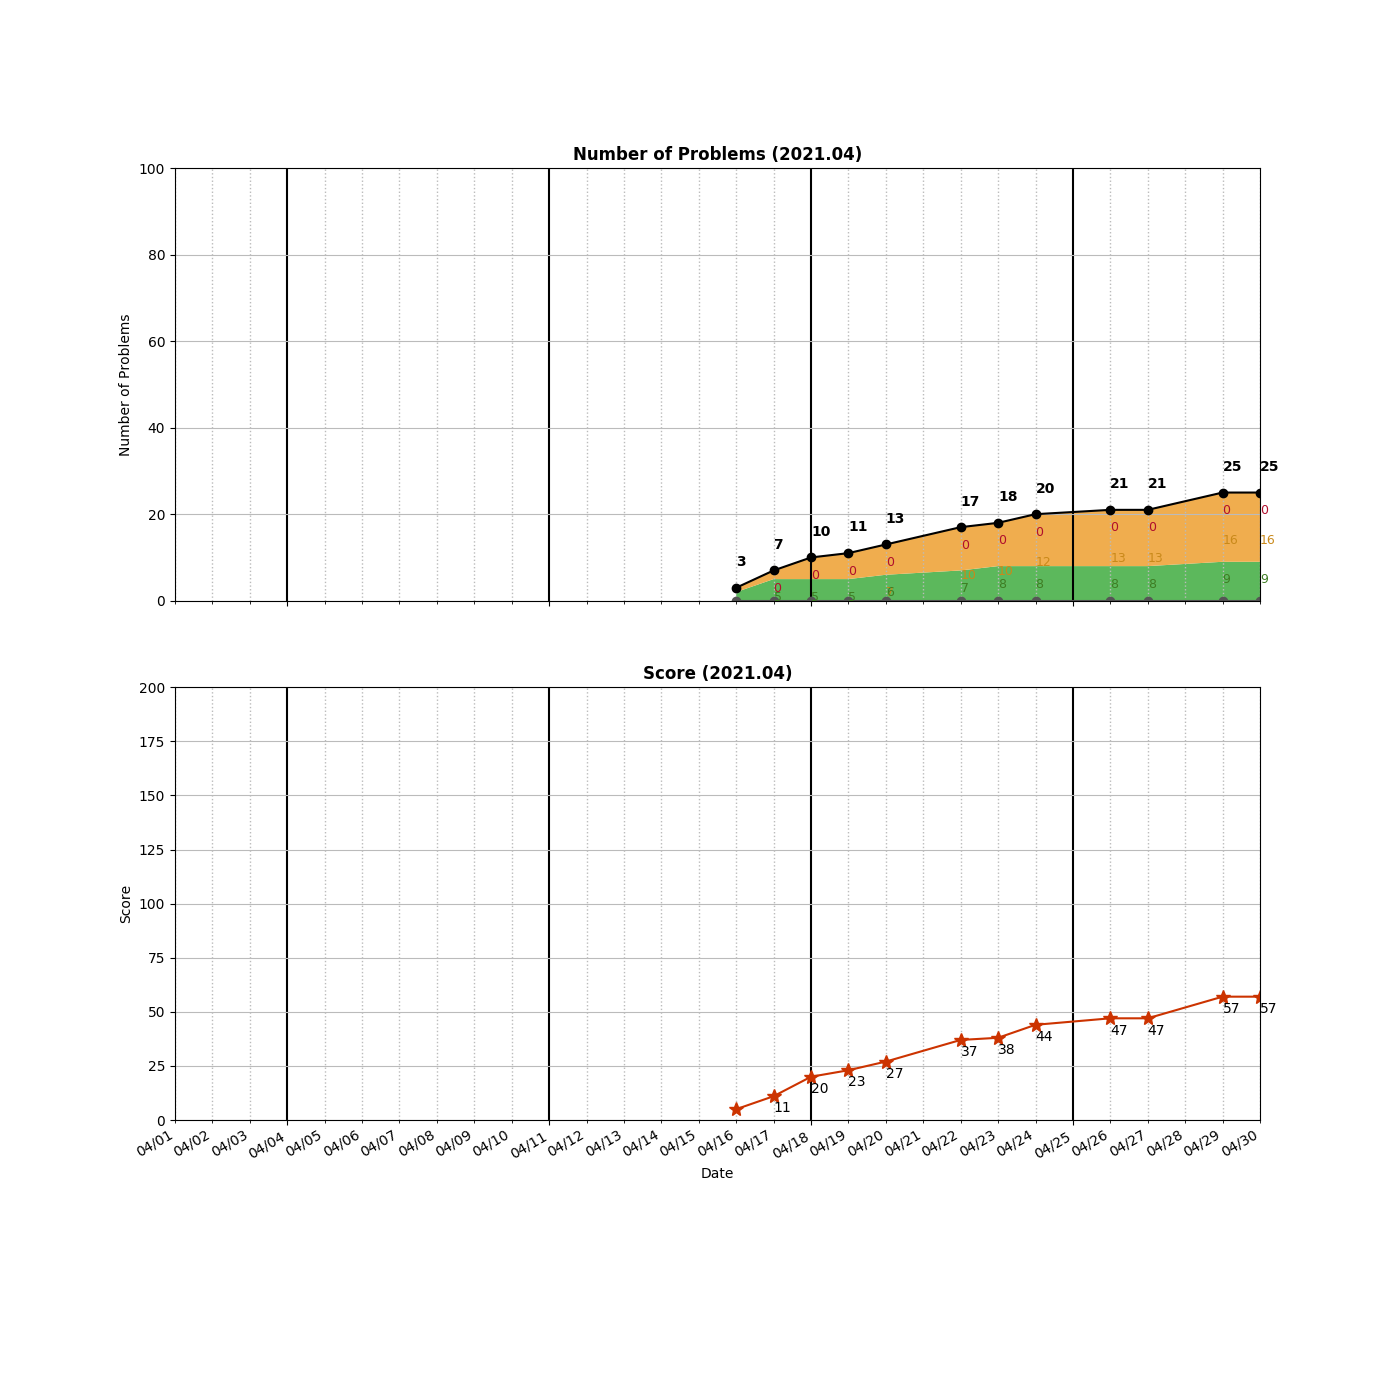
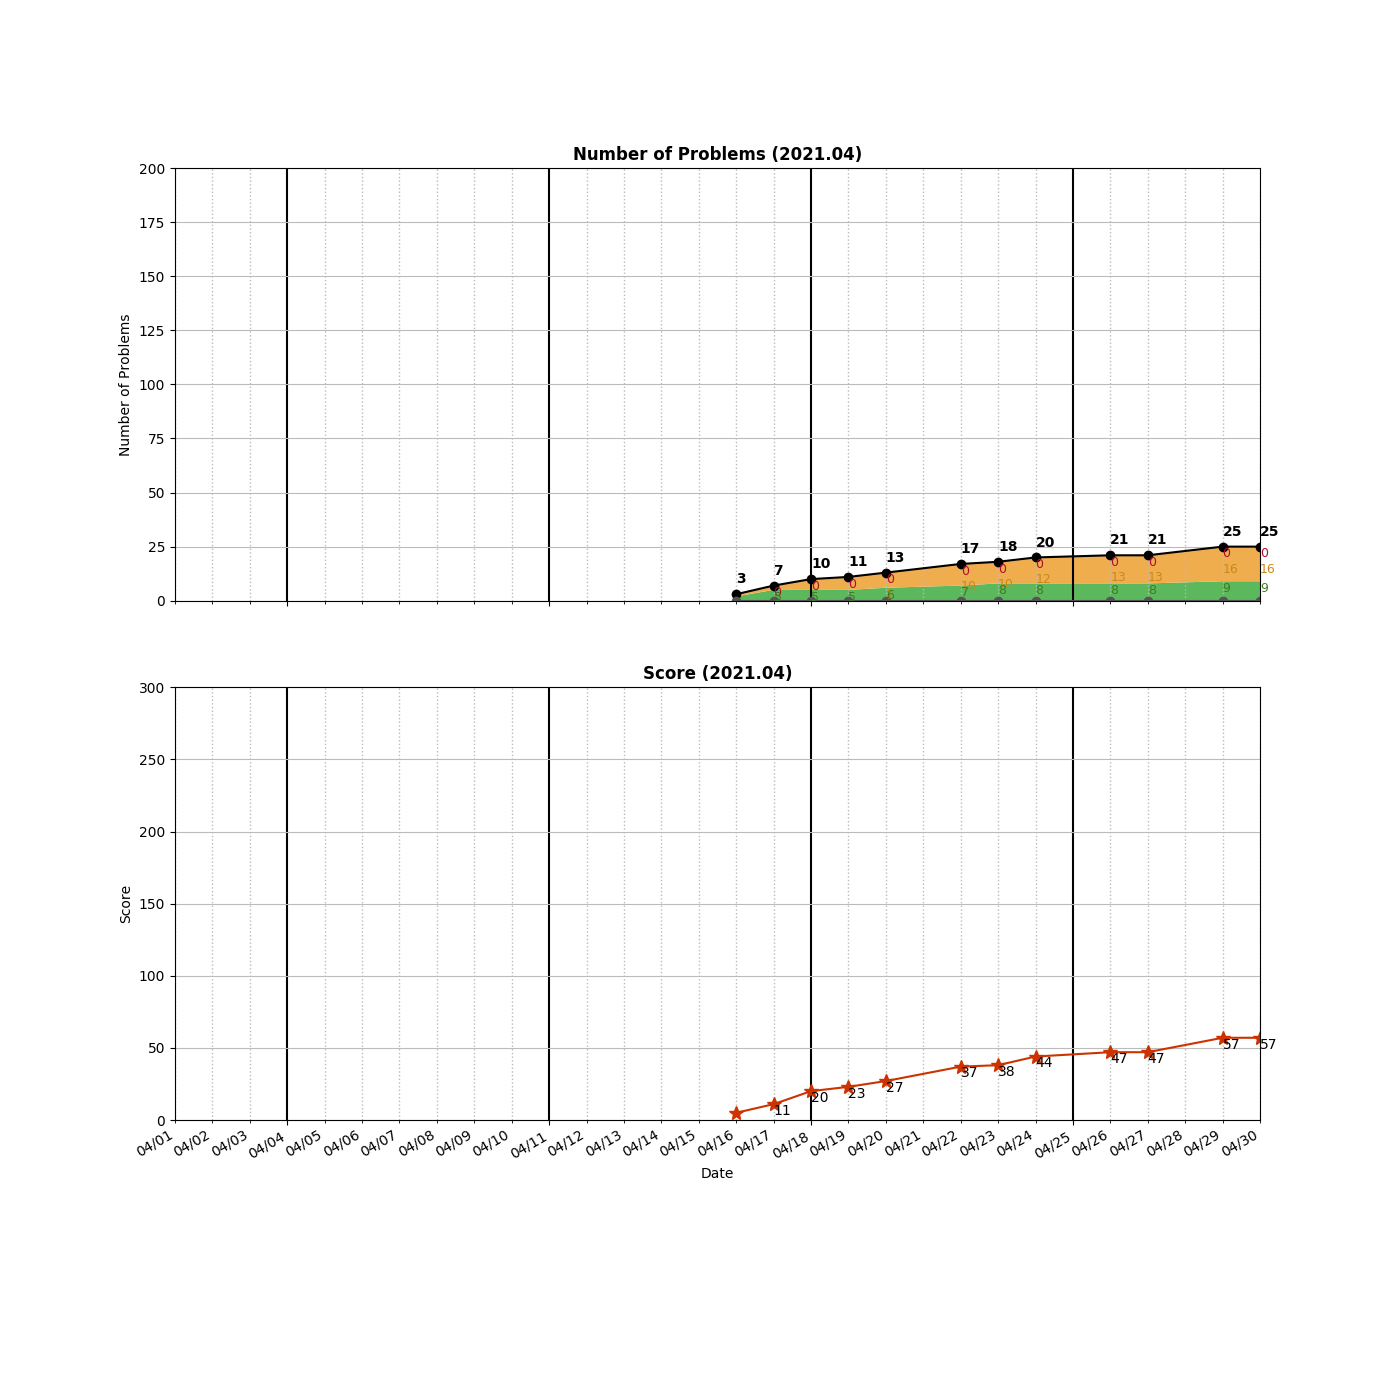
Added __0142__Linked List Cycle II.py

diff --git a/algodraw.py b/algodraw.py
@@ -164,7 +164,7 @@ def draw(dates, values):
     axs[0].set_title("Number of Problems (2021.04)", fontweight = 'bold')
 
     axs[0].set_xlim(datetime.datetime(2021,4,1), datetime.datetime(2021,4,30)) 
-    axs[0].set_ylim(0,100) #number of quiz
+    axs[0].set_ylim(0,200) #number of quiz
     axs[0].grid(which='major', color='k', axis ='x', linestyle='-', linewidth=1.5)
     axs[0].grid(which='minor', color='#bbbbbb', axis ='x', linestyle=':', linewidth=1)
     axs[0].grid(which='major', color='#bbbbbb', axis ='y')
@@ -181,7 +181,7 @@ def draw(dates, values):
         title="Score (2020.04)")
     #ax2.set_xlim(datetime.datetime(2020,4,1), datetime.datetime(2020,4,30)) 
     axs[1].set_title("Score (2020.04)", fontweight = 'bold')
-    axs[1].set_ylim(0,200) #score of quiz
+    axs[1].set_ylim(0,300) #score of quiz
     axs[1].grid(which='major', color='k', axis ='x', linestyle='-', linewidth=1.5)
     axs[1].grid(which='minor', color='#bbbbbb', axis ='x', linestyle=':', linewidth=1)
     axs[1].grid(which='major', color='#bbbbbb', axis ='y')

diff --git a/algo/LinkedList/__0142__Linked List Cycle II.py b/algo/LinkedList/__0142__Linked List Cycle II.py
@@ -1,0 +1,32 @@
+# Definition for singly-linked list.
+# class ListNode:
+#     def __init__(self, x):
+#         self.val = x
+#         self.next = None
+
+class Solution:
+    def detectCycle(self, head: ListNode) -> ListNode:
+        
+        if not head or not head.next:
+            return None
+        
+        p1, p2 = head, head.next
+        
+        while True:
+
+            if p1 == p2:
+                break 
+            
+            if not p1 or not p2 or not p2.next:
+                return None
+            
+            p1 = p1.next
+            p2 = p2.next.next 
+        
+        dummy = ListNode(-1)
+        dummy.next = head
+        p1 = dummy
+        while p1 != p2:
+            p1 = p1.next
+            p2 = p2.next
+        return p1

diff --git a/README.md b/README.md
@@ -75,7 +75,10 @@ algo
 ├── LinkedList
 │   ├── __0021__Merge\ Two\ Sorted\ Lists.py
 │   ├── __0092__Reverse\ Linked\ List\ II.py
-│   └── __0206__Reverse\ Linked\ List.py
+│   ├── __0141__Linked\ List\ Cycle.py
+│   ├── __0142__Linked\ List\ Cycle\ II.py
+│   ├── __0206__Reverse\ Linked\ List.py
+│   └── __0234__Palindrome\ Linked\ List.py
 ├── Sorting
 │   └── __0242__Valid\ Anagram.py
 ├── Stack
@@ -121,7 +124,7 @@ algo
     ├── __0969__Pancake\ Sorting.py
     └── __1099__Two\ Sum\ Less\ Than\ K.py
 
-15 directories, 105 files
+15 directories, 108 files
 
 =====================================
 ============= Local Repo ============
@@ -175,6 +178,8 @@ __0125__Valid Palindrome.py
 __0127__Word Ladder.py
 __0133__Clone Graph.py
 __0136__Single Number.py
+__0141__Linked List Cycle.py
+__0142__Linked List Cycle II.py
 __0144__Binary Tree Preorder Traversal.py
 __0146__LRU Cache.py
 __0153__Find Minimum in Rotated Sorted Array.py
@@ -193,6 +198,7 @@ __0215__Kth Largest Element in an Array.py
 __0216__Combination Sum III.py
 __0226__Invert Binary Tree.py
 __0230__Kth Smallest Element in a BST.py
+__0234__Palindrome Linked List.py
 __0235__Lowest Common Ancestor of a Binary Search Tree.py
 __0236__Lowest Common Ancestor of a Binary Tree.py
 __0240__Search a 2D Matrix II.py
@@ -231,7 +237,7 @@ __0973__K Closest Points to Origin.py
 __1099__Two Sum Less Than K.py
 __1429__First Unique Number.py
 =====================================
-Num of Python Practice:  104
+Num of Python Practice:  107
 
 
 =====================================
@@ -287,6 +293,8 @@ Num of Python Practice:  104
  0127 Word Ladder
  0133 Clone Graph
  0136 Single Number
+ 0141 Linked List Cycle
+ 0142 Linked List Cycle II
  0144 Binary Tree Preorder Traversal
  0146 LRU Cache
  0153 Find Minimum in Rotated Sorted Array
@@ -305,6 +313,7 @@ Num of Python Practice:  104
  0216 Combination Sum III
  0226 Invert Binary Tree
  0230 Kth Smallest Element in a BST
+ 0234 Palindrome Linked List
  0235 Lowest Common Ancestor of a Binary Search Tree
  0236 Lowest Common Ancestor of a Binary Tree
  0240 Search a 2D Matrix II
@@ -343,11 +352,11 @@ Num of Python Practice:  104
  1099 Two Sum Less Than K
  1429 First Unique Number
 =====================================
-Solved / Total (Easy)  :   36 /  495
-Solved / Total (Medium):   64 /  995
-Solved / Total (Hard)  :    5 /  395
-Solved / Total (All)   :  105 / 1885
-Total Score            :  253
+Solved / Total (Easy)  :   38 /  496
+Solved / Total (Medium):   65 /  997
+Solved / Total (Hard)  :    5 /  396
+Solved / Total (All)   :  108 / 1889
+Total Score            :  258
 =====================================
 
 ```
